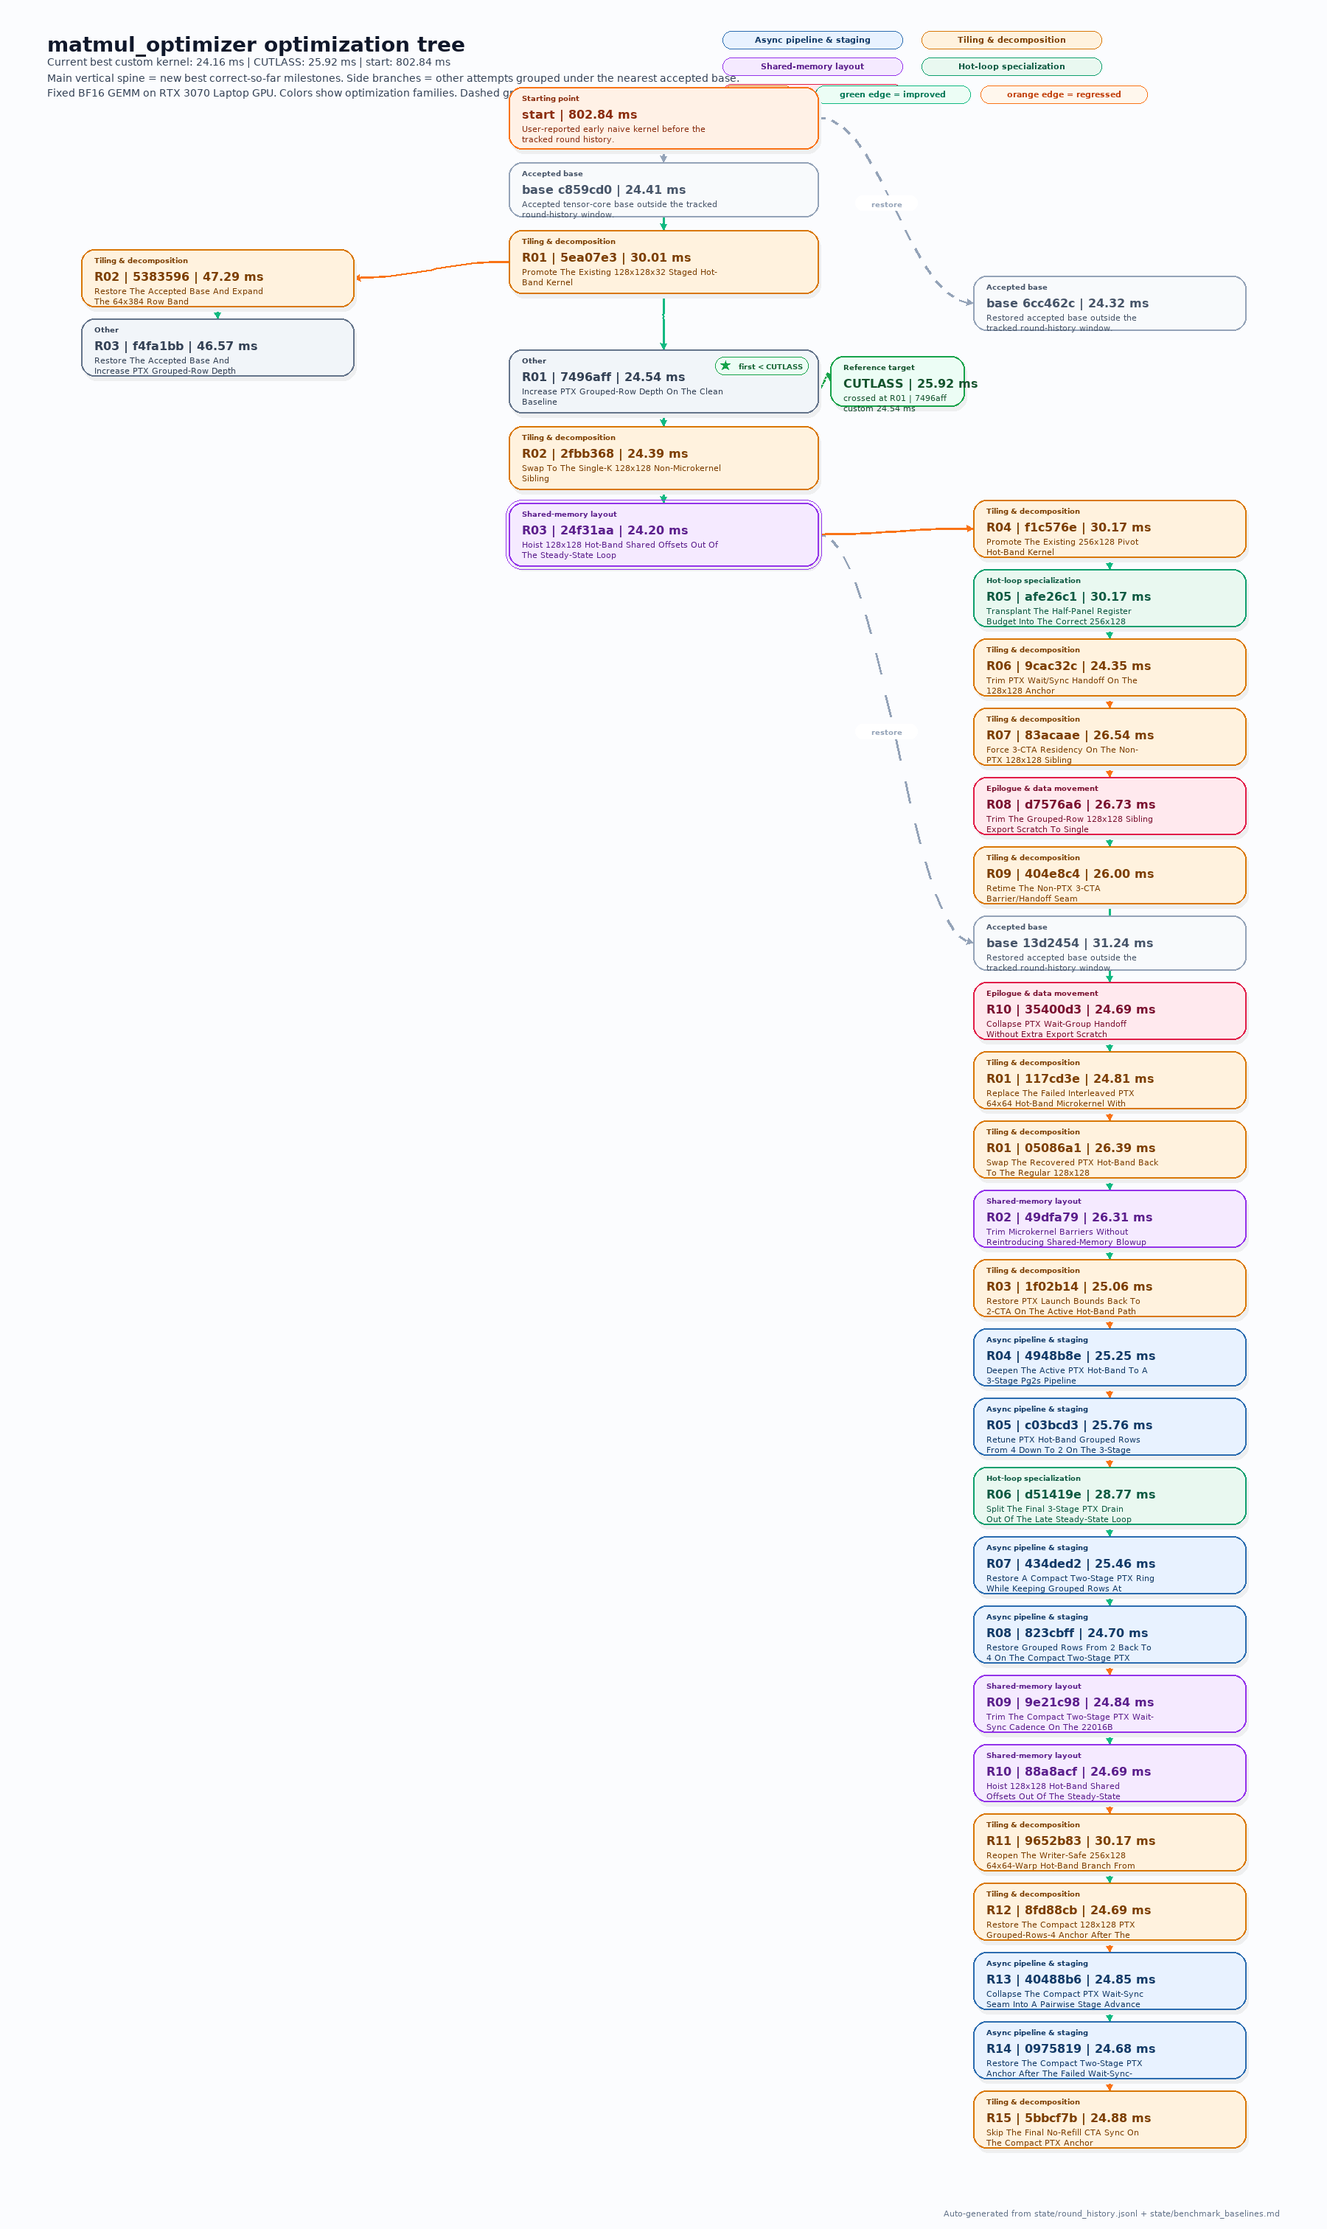
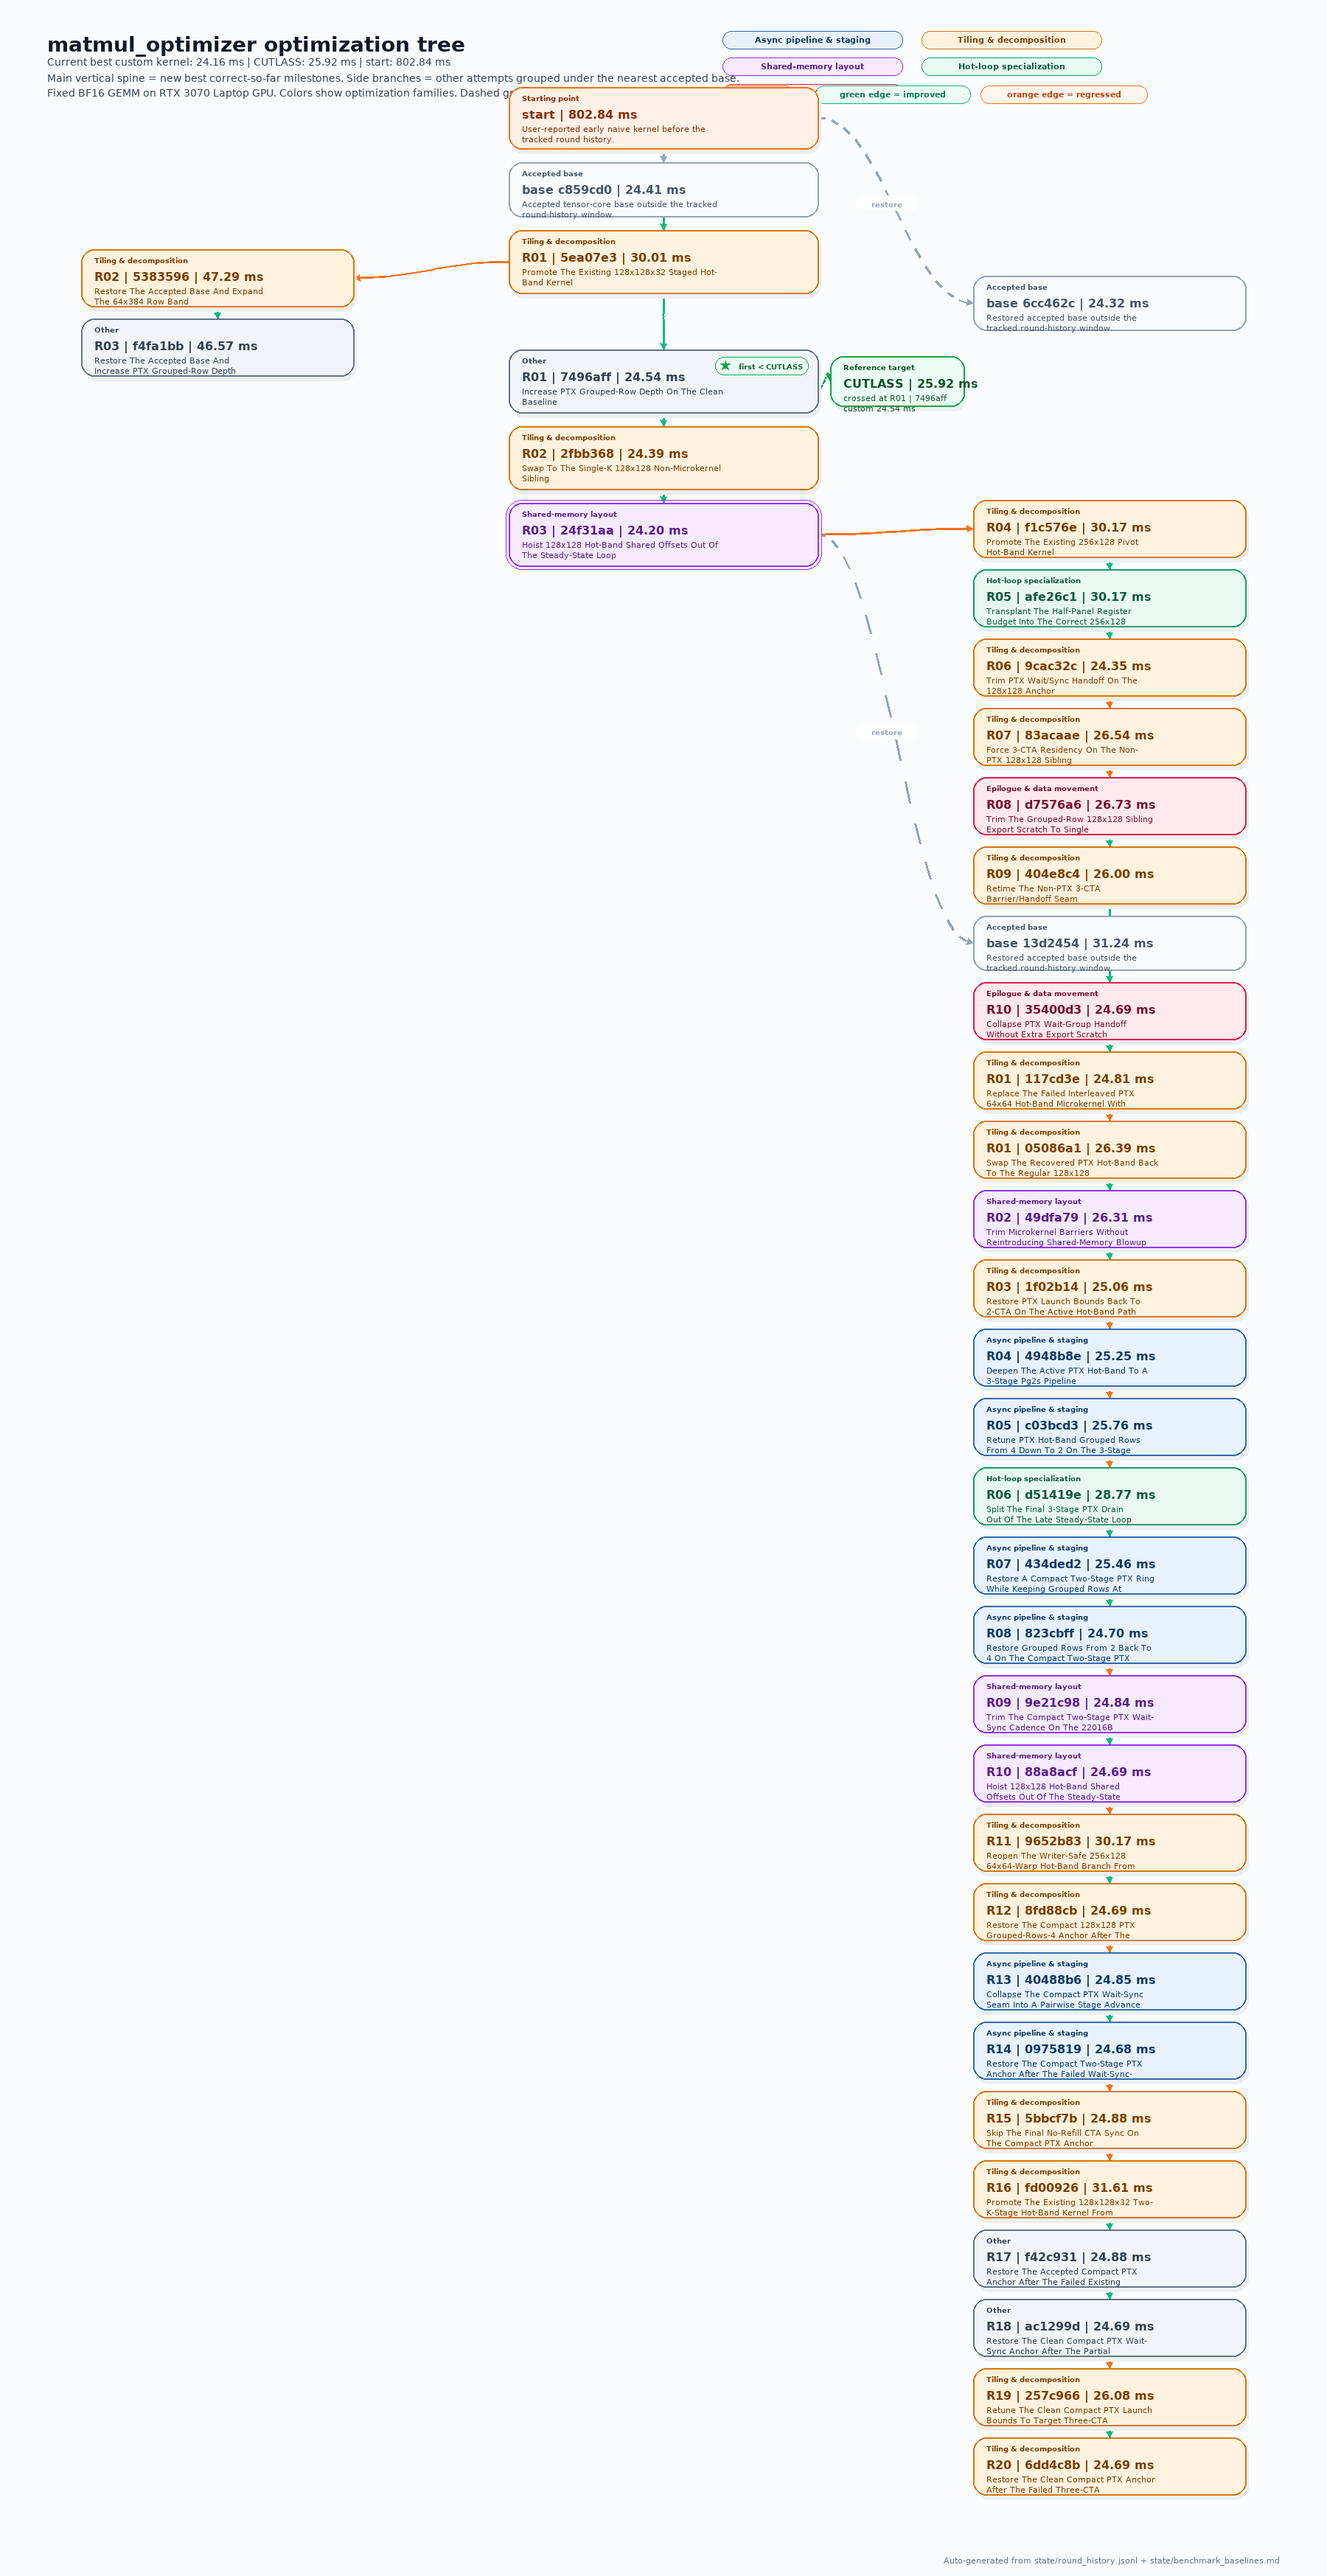
infra: refresh blog and README benchmark snapshot

Changed region(s): [[0.7156, 0.1865, 0.9644, 0.9947], [0.0311, 0.0, 0.8711, 0.2487], [0.0622, 0.0933, 0.28, 0.1865]]

diff --git a/blog/harness-engineering-human-in-the-loop-cuda-matmul/index.md b/blog/harness-engineering-human-in-the-loop-cuda-matmul/index.md
@@ -253,11 +253,11 @@ That narrowness is the point.
 
 I am not trying to claim a general matmul breakthrough. I am trying to test how far **harness engineering + profiling + human steering + LLM assistance** can go in a realistic constrained setup.
 
-The tree below is regenerated from the latest tracked round history in the current refactor branch, which now spans **29 recorded measurement rounds**, so it shows the live exploratory commits while keeping the official best snapshot anchored to the current recorded-best commit **`489574e`**.
+The tree below is regenerated from the latest tracked round history in the current refactor branch, which now spans **34 recorded measurement rounds**, so it shows the live exploratory commits while keeping the official best snapshot anchored to the current recorded-best commit **`489574e`**.
 
 This refactor checkpoint is intentionally separated from the older large-history search. The branch keeps the public benchmark snapshot fixed at the recorded best while the new queue/frontier loop rebuilds evidence on top of a smaller clean baseline and a local cuBLASLt reference.
 
-The latest 5-round frontier-only refactor loop first reopened the writer-safe **256x128** hot-band branch and fell to about **30.17 ms**, then restored the compact two-stage PTX anchor to about **24.68 ms**, and finally sampled two compact sync-family trims that both regressed. So the public best still did not move, but the branch now shows a frontier-driven loop that can recover cleanly from a bad structural branch, hold the compact PTX family near its branch-local best, and continue searching from an auditable anchor instead of from hidden drift.
+The latest 5-round frontier-only refactor loop promoted the existing **128x128x32** two-K-stage hot-band kernel and immediately fell to about **31.61 ms**, then only partially recovered to about **24.88 ms** when the dispatch switched back but the compact PTX loop still carried the older skip-final-sync seam. After that, restoring the clean compact wait/sync anchor brought the branch back to about **24.69 ms**, a final **3-CTA** PTX launch-bounds probe cut registers sharply but still regressed to about **26.08 ms**, and the loop closed by restoring the clean anchor again at about **24.69 ms**. So the public best still did not move, but the branch now shows a frontier-driven loop that can take a bad structural branch, isolate a hidden partial-restore mistake, reject an occupancy-only probe that hurts the real schedule, and still finish on a clean auditable anchor instead of on a regressed end state.
 
 At the moment, the official benchmark snapshot in the repo is:
 - custom kernel: **24.16 ms**

diff --git a/README.md b/README.md
@@ -344,7 +344,7 @@ That narrowness is the point.
 
 I am not trying to claim a general matmul breakthrough. I am trying to test how far harness engineering, profiling, human steering, and LLM assistance can go in a realistic constrained setup.
 
-The tree asset below is regenerated from the latest tracked round history in this refactor branch, which now spans `29` recorded measurement rounds, so it reflects the current exploratory commits while keeping the official best snapshot anchored to the current recorded-best commit `489574e`.
+The tree asset below is regenerated from the latest tracked round history in this refactor branch, which now spans `34` recorded measurement rounds, so it reflects the current exploratory commits while keeping the official best snapshot anchored to the current recorded-best commit `489574e`.
 
 At the moment, the official benchmark snapshot in the repo is:
 
@@ -352,7 +352,7 @@ At the moment, the official benchmark snapshot in the repo is:
 - local CUTLASS baseline: `25.917889 ms`
 - result: `1.753616 ms` faster than CUTLASS, or `6.766049%` lower runtime, enough to show the harness can cross a strong local baseline on one fixed problem while still leaving room to validate and extend the win
 
-The latest 5-round frontier-only refactor loop first reopened the writer-safe `256x128` hot-band branch and lost badly at `30.174224 ms`, then restored the compact two-stage PTX anchor to a slightly better `24.682431 ms`, and finally sampled two compact sync-family trims that both regressed. The public best still did not move, but the tree now shows a frontier loop that can recover quickly from a bad structural branch, hold the compact PTX family near its local branch best, and keep the search state clean enough to continue from an auditable anchor instead of accumulating hidden drift.
+The latest 5-round frontier-only refactor loop promoted the existing `128x128x32` two-K-stage hot-band kernel and immediately fell to `31.612928 ms`, then partially recovered to `24.881616 ms` when only the dispatch switched back to the PTX microkernel, restored the clean compact wait/sync anchor to `24.688641 ms`, tried a final `3`-CTA PTX launch-bounds probe that dropped registers to `168` but regressed to `26.079727 ms`, and closed by restoring the clean anchor again at `24.689665 ms`. The public best still did not move, but the tree now shows a frontier loop that can take a bad structural branch, diagnose the exact residual seam in the recovery path, reject a misleading occupancy-only win, and still finish on a clean auditable anchor instead of leaving the branch in a regressed state.
 
 ## Major Workflow Updates
 
